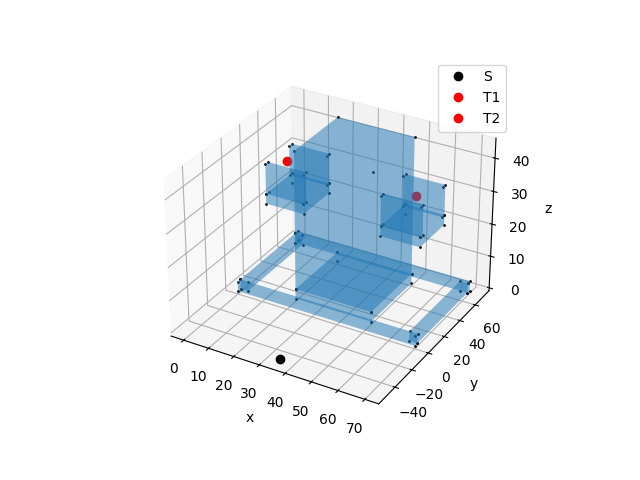
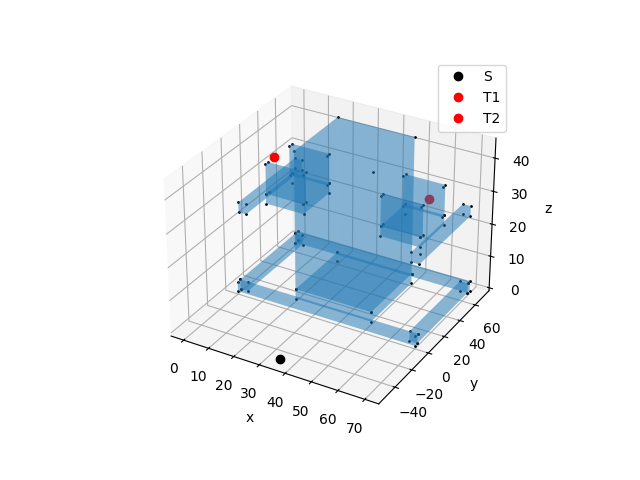
changes to pull

Changed region(s): [[0.625, 0.4062, 0.75, 0.5625], [0.375, 0.3125, 0.4688, 0.4688], [0.625, 0.4062, 0.6875, 0.4375]]

diff --git a/generate_scenarios.py b/generate_scenarios.py
@@ -162,6 +162,11 @@ def generate_S3(path):
     wallg3 = wallg1 + np.array([0, 70 - wall_thick, 0])
     wallg4 = wallg2 + np.array([70 - wall_thick, 0, 0])
 
+    # walla1 = wallg1 + np.array([0,0,8*h])
+    walla2 = wallg2 + np.array([0,0,8*h])
+    # walla3 = wallg3 + np.array([0,0,8*h])
+    walla4 = wallg4 + np.array([0,0,8*h])
+
     squareg1 = np.array([
         [20,10,0], [50,10,0], [20,60,0], [50,60,0],
         [20,10,h], [50,10,h], [20,60,h], [50,60,h],  
@@ -178,20 +183,98 @@ def generate_S3(path):
     ])
     balcony2 = balcony1 + np.array([45+EPSILON,0,0])
 
-    walla1 = np.array([
+    walla5 = np.array([
         [5,20,8*h+wall_thick+EPSILON], [20-EPSILON,20,8*h+wall_thick+EPSILON], [5,20+wall_thick,8*h+wall_thick+EPSILON], [20-EPSILON,20+wall_thick,8*h+wall_thick+EPSILON],   
         [5,20,12*h], [20-EPSILON,20,12*h], [5,20+wall_thick,12*h], [20-EPSILON,20+wall_thick,12*h],   
     ])
-    walla2 = walla1 + np.array([0,30-wall_thick, 0])
-    walla3 = walla1 + np.array([45+EPSILON,0,0])
-    walla4 = walla2 + np.array([45+EPSILON,0,0])
+    walla6 = walla5 + np.array([0,30-wall_thick, 0])
+    walla7 = walla5 + np.array([45+EPSILON,0,0])
+    walla8 = walla6 + np.array([45+EPSILON,0,0])
+
+
 
     gobs = [wallg1, wallg2, wallg3, wallg4, squareg1]
-    aobs = [squarea1, balcony1, balcony2, walla1, walla2, walla3, walla4]
+    aobs = [squarea1, balcony1, balcony2,  walla2,  walla4, walla5, walla6, walla7, walla8]
 
     S = (35,-50,0)
-    T1 = (10,30, 12*h)
-    T2 = (60,30, 12*h)
+    T1 = (5,30, 12*h)
+    T2 = (65,30, 12*h)
+    
+    scenario = {
+        "S": S,
+        "T": [T1, T2],
+        "ground_obstacles": gobs,
+        "aerial_obstacles": aobs,
+        "ground_vis_graph": None,
+    }
+
+    with open(path, "wb") as f:
+        f.write(pkl.dumps(scenario))
+
+    with open(path, "rb") as f:
+        s = pkl.loads(f.read())
+
+    plot_scenario_multitarget(s, "images/S3.png")
+
+
+
+def generate_S32(path):
+    
+    h = MARSUPIAL_HEIGHT
+    wall_thick = 3
+    roof_thick = 1
+
+    wallg1 = np.array([
+        [0,0,0], [70,0,0], [0,wall_thick,0], [70,wall_thick,0],
+        [0,0,h], [70,0,h], [0,wall_thick,h], [70,wall_thick,h]
+    ])
+    wallg2 = np.array([
+        [0,wall_thick+EPSILON,0], [wall_thick,wall_thick+EPSILON,0],
+        [0,70-2*EPSILON-wall_thick,0], [wall_thick,70-2*EPSILON-wall_thick,0], 
+        [0,wall_thick+EPSILON,h], [wall_thick,wall_thick+EPSILON,h],
+        [0,70-2*EPSILON-wall_thick,h], [wall_thick,70-2*EPSILON-wall_thick,h], 
+    ])
+    wallg3 = wallg1 + np.array([0, 70 - wall_thick, 0])
+    wallg4 = wallg2 + np.array([70 - wall_thick, 0, 0])
+
+
+    # walla1 = wallg1 + np.array([0,0,8*h])
+    walla2 = wallg2 + np.array([0,0,8*h])
+    # walla3 = wallg3 + np.array([0,0,8*h])
+    walla4 = wallg4 + np.array([0,0,8*h])
+
+    squareg1 = np.array([
+        [20,10,0], [50,10,0], [20,60,0], [50,60,0],
+        [20,10,h], [50,10,h], [20,60,h], [50,60,h],  
+    ])
+
+    squarea1 = np.array([
+        [20,10,h+EPSILON], [50,10,h+EPSILON], [20,60,h+EPSILON], [50,60,h+EPSILON],  
+        [20,10,15*h], [50,10,15*h], [20,60,15*h], [50,60,15*h],
+    ])
+
+    balcony1 = np.array([
+        [5,20,8*h], [20-EPSILON,20,8*h], [5,50,8*h], [20-EPSILON,50,8*h],   
+        [5,20,8*h+wall_thick], [20-EPSILON,20,8*h+wall_thick], [5,50,8*h+wall_thick], [20-EPSILON,50,8*h+wall_thick],   
+    ])
+    balcony2 = balcony1 + np.array([45+EPSILON,0,0])
+
+    walla5 = np.array([
+        [5,20,8*h+wall_thick+EPSILON], [20-EPSILON,20,8*h+wall_thick+EPSILON], [5,20+wall_thick,8*h+wall_thick+EPSILON], [20-EPSILON,20+wall_thick,8*h+wall_thick+EPSILON],   
+        [5,20,12*h], [20-EPSILON,20,12*h], [5,20+wall_thick,12*h], [20-EPSILON,20+wall_thick,12*h],   
+    ])
+    walla6 = walla5 + np.array([0,30-wall_thick, 0])
+    walla7 = walla5 + np.array([45+EPSILON,0,0])
+    walla8 = walla6 + np.array([45+EPSILON,0,0])
+
+
+
+    gobs = [wallg1, wallg2, wallg3, wallg4, squareg1]
+    aobs = [squarea1, balcony1, balcony2,  walla2,  walla4, walla5, walla6, walla7, walla8]
+
+    S = (35,-50,0)
+    T1 = (5,30, 12*h)
+    T2 = (65,30, 12*h)
     
     scenario = {
         "S": S,
@@ -326,7 +409,7 @@ if __name__ == "__main__":
     
     # generate_S1("scenarios/S1.pkl")
     # generate_S2("scenarios/S2.pkl")
-    generate_S3("scenarios/S3.pkl")
+    generate_S32("scenarios/S3.pkl")
 
     # n = 1000
     # instances_n = 1
